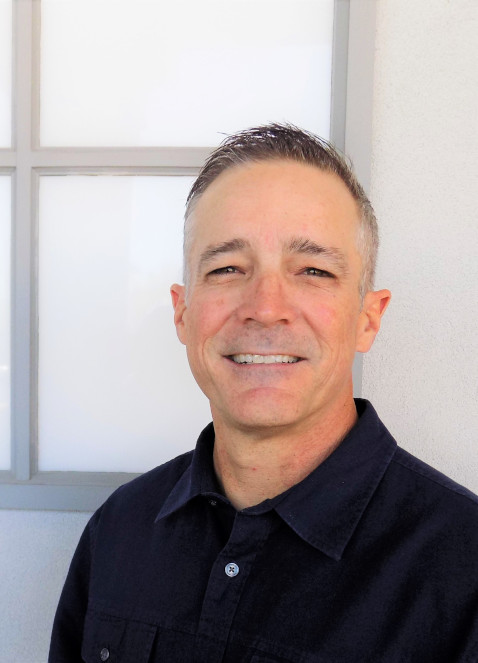
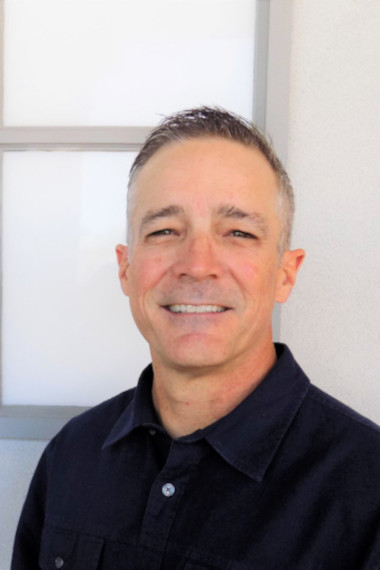
add team pictures to site

diff --git a/join-ac.html b/join-ac.html
@@ -160,7 +160,7 @@
 ============================================ -->
         <section id="page-title" class="page-title bg-overlay bg-overlay-dark2">
             <div class="bg-section">
-                <img src="assets/images/page-titles/office.jpg" alt="Background" />
+                <img src="assets/images/team/team_picture.jpg" alt="Background" />
             </div>
             <div class="container">
                 <div class="row">
@@ -199,6 +199,7 @@
                             <p> The Asher Chaim name is centered on blessed living. We firmly believe if we L.I.V.E by our core values of Leadership, Integrity, Value Creation and Excellence our agents and clients will achieve their Real Estate dreams. <br><br>
                             </p>
 
+
                             <h2 class="heading--title">Accelerate Your Career</h2>
                             <p>Joining our team is more than just a job, you are valued as an important member of the Asher Chaim L.I.V.E. mission. At Asher Chaim we define career acceleration across four key dimensions of Business Accelerators, Technology Accelerators, Executive Mentorship and Growth Opportunity. These four dimensions are interrelated and compounding to support you in accelerating your career aspirations.
                             The Asher Chaim brand gives you access and credibility  to all areas of real estate and beyond connecting you with our network and sources of referrals that taps into residential, commercial, wholesale, luxury and property management markets. We deliver results by forging long lasting relationships and always exploring new areas of opportunity for improvement engaging agents, employees and clients in the process. 
@@ -218,6 +219,9 @@
             <!-- .container end -->
         </section>
         <!-- .feature end -->
+
+
+
 
 
 

diff --git a/about-us.html b/about-us.html
@@ -157,7 +157,7 @@
 ============================================ -->
         <section id="page-title" class="page-title bg-overlay bg-overlay-dark2">
             <div class="bg-section">
-                <img src="assets/images/page-titles/antelope-canyon.jpg" alt="Background" />
+                <img src="assets/images/team/team_picture_2.jpg" alt="Background" />
             </div>
             <div class="container">
                 <div class="row">
@@ -338,7 +338,7 @@
                             <div class="agent--img">
                                 <img src="assets/images/team/Nicholas_Maheshwari_Headshot.jpg" alt="agent" />
                                 <div class="agent--details">
-                                    <p>Nicholas is Asher Chaim's lead Software Engineer, as well as a managing partner, collaborating with the company founders to improve Asher Chaim's tech capabilities. He recieved his Bachelor's degree in Computer Science from the Honor's College at Arizona State, and is currently pursuing his Master's degree in Computer Science at the University of Chicago.  </p>
+                                    <p>Nicholas is Asher Chaim's lead Software Engineer, as well as a managing partner, collaborating with the company founders to improve Asher Chaim's tech capabilities. He recieved his Bachelor's degree in Computer Science right here in Arizona from the Honor's College at Arizona State, as well as his Master's degree in Computer Science at the University of Chicago. </p>
                                 </div> 
                             </div>
                             <!-- .agent-img end -->

diff --git a/home.html b/home.html
@@ -319,6 +319,9 @@
         <!-- .feature end -->
 
 
+
+
+
         <!-- cta #1
 ============================================= -->
         <section id="cta" class="cta cta-1 text-center bg-overlay bg-overlay-dark pt-90">
